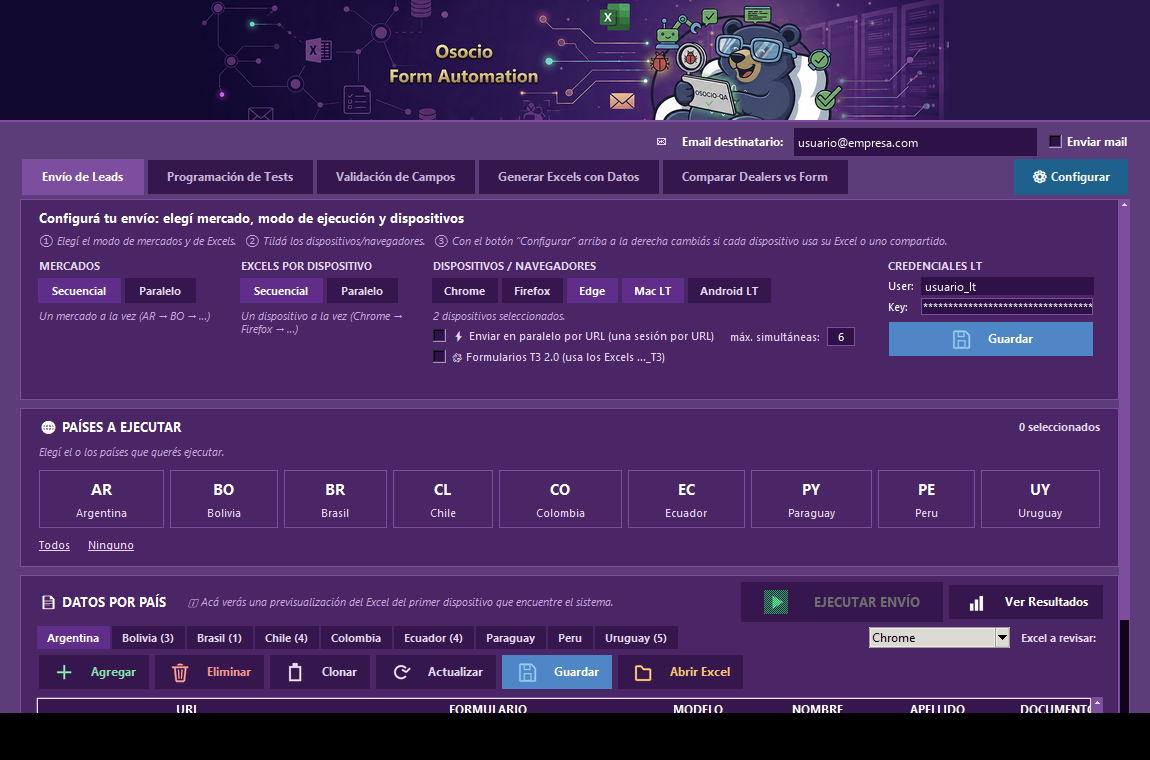
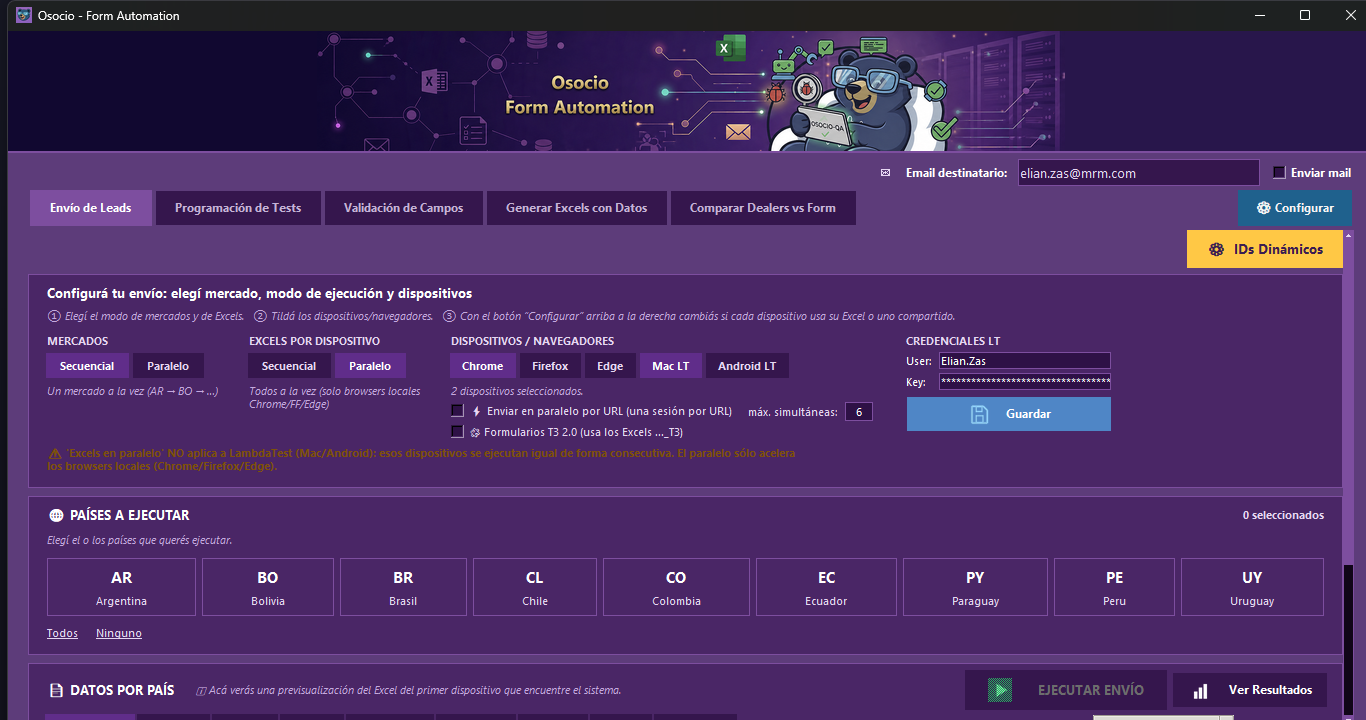
Docs y build: capturas regeneradas, email unificado en Dealers, build solo portable
Comparador Dealers: se quita el bloque "ENVIAR RESULTADOS POR EMAIL" que estaba al
final de la pestana. Escribia en la MISMA config global que la barra superior
("Email destinatario" + "Enviar mail"), asi que eran dos lugares para configurar lo
mismo. Ahora el flag de arriba aplica a la pestana que se este ejecutando; el valor
se lee al momento de ejecutar en vez de al construir la UI.

build.bat: genera unicamente dist/OsocioFormAutomation_portable/. Se elimina el .exe
suelto de dist/ (ya viaja adentro del portable) y no se arma el ZIP, para acortar el
build.

Capturas: 25 screenshots regeneradas contra la app actual (todas las pestanas, sus
secciones scrolleadas, los modales de Configurar / IDs Dinamicos con sus 4 solapas /
calendario de horarios / generador de regex / mensaje de error / dependencia /
credenciales LT, y el modal de ejecucion). Se agregan 5 nuevas (dependencias de IDs
Dinamicos, partes inferiores de Generar Excels, Validacion, Dealers y Programacion) y
se borran 2 que habian quedado duplicadas (05, 10).

README: se documenta el nuevo comportamiento de los dropdowns (respetar el Excel antes
de aleatorizar), el email unificado, el build solo-portable, el aviso de que hay que
recompilar para que el portable tome cambios de codigo, y se reacomodan las
referencias a las capturas nuevas.

Quedan sin regenerar 18 y 19 (modal del Comparador): requieren una comparacion
configurada con Excels reales elegidos por dialogo de archivos.

diff --git a/interface/dealer_comparator_ui.py b/interface/dealer_comparator_ui.py
@@ -724,35 +724,10 @@ def build_dealer_comparator_tab(tab_frame, ctx):
     for val, txt in (("excel", "Solo Excel"), ("caps", "Excel + Capturas")):
         ttk.Radiobutton(output_row, text=txt, value=val, variable=output_mode_var).pack(side="left", padx=8)
 
-    # ── 5b. Envío por email (mismo criterio que Envío de Leads) ────────────────
-    from .helpers_interface import cargar_config_global as _cfg_g, guardar_config_global as _cfg_s
-    _cfg_ini = _cfg_g()
-    email_card = card("✉ ENVIAR RESULTADOS POR EMAIL",
-                      "Al terminar cada form manda un mail con el reporte. Usa el mismo destinatario "
-                      "que Envío de Leads. Adjunta la carpeta (Excel + capturas) si elegiste "
-                      "'Excel + Capturas', o solo el Excel si elegiste 'Solo Excel'.")
-    enviar_mail_var = BooleanVar(value=bool(_cfg_ini.get("enviar_mail", False)))
-    email_dest_var = StringVar(value=str(_cfg_ini.get("email_destinatario", "") or ""))
-
-    email_row = Frame(email_card, bg=CARD_BG)
-    email_row.pack(fill="x", padx=15, pady=(0, 8))
-    Checkbutton(email_row, text="Enviar mail al terminar", variable=enviar_mail_var,
-                bg=CARD_BG, fg=TEXT_S, selectcolor=ENTRY_BG, activebackground=CARD_BG,
-                font=("Segoe UI", 9)).pack(side="left")
-    Label(email_row, text="Destinatario(s):", font=("Segoe UI", 8), bg=CARD_BG, fg=TEXT_S).pack(side="left", padx=(12, 4))
-    Entry(email_row, textvariable=email_dest_var, width=32, bg=ENTRY_BG, fg="white",
-          insertbackground="white", relief="flat").pack(side="left")
-    Label(email_card, text="(varios separados por coma)", font=("Segoe UI", 8, "italic"),
-          bg=CARD_BG, fg="#8A7E9E").pack(anchor="w", padx=15, pady=(0, 6))
-
-    def _persistir_email_cfg(*_a):
-        cfg = _cfg_g()
-        cfg["enviar_mail"] = bool(enviar_mail_var.get())
-        cfg["email_destinatario"] = (email_dest_var.get() or "").strip()
-        _cfg_s(cfg)
-
-    enviar_mail_var.trace_add("write", _persistir_email_cfg)
-    email_dest_var.trace_add("write", _persistir_email_cfg)
+    # El envío por email se controla SOLO desde la barra superior de la app
+    # ("Email destinatario" + "Enviar mail"), común a todas las pestañas. Antes había
+    # acá un card duplicado que escribía en esa misma config global; se quitó para no
+    # tener dos lugares donde configurar lo mismo. El valor se lee al ejecutar.
 
     # ── 6. Configuraciones guardadas ─────────────────────────────────────────
     presets_card = card("💾 CONFIGURACIONES GUARDADAS",
@@ -1665,8 +1640,9 @@ def build_dealer_comparator_tab(tab_frame, ctx):
                         expect_absent=expect_absent,
                     )
 
-                # --- Email por form (mismo criterio que Envío de Leads) ---
-                if enviar_mail_var.get():
+                # --- Email por form: usa el flag global de la barra superior ---
+                from .helpers_interface import cargar_config_global as _cfg_g
+                if bool(_cfg_g().get("enviar_mail", False)):
                     try:
                         from .helpers_interface import enviar_email_comparador_dealers
                         _pair_counts = {}
